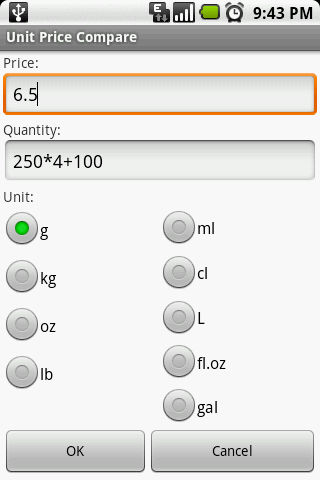
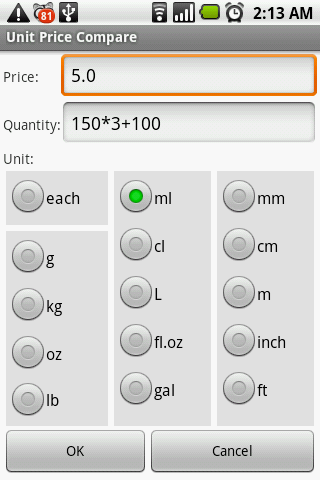
0.8

diff --git a/UnitPriceCompare/src/leoliang/unitpricecompare/MainActivity.java b/UnitPriceCompare/src/leoliang/unitpricecompare/MainActivity.java
@@ -29,13 +29,13 @@ import android.view.ViewGroup;
 import android.view.ContextMenu.ContextMenuInfo;
 import android.view.View.OnClickListener;
 import android.view.View.OnCreateContextMenuListener;
-import android.widget.AdapterView;
 import android.widget.BaseAdapter;
 import android.widget.Button;
+import android.widget.CheckBox;
+import android.widget.CompoundButton;
 import android.widget.ListView;
 import android.widget.TextView;
-import android.widget.AdapterView.AdapterContextMenuInfo;
-import android.widget.AdapterView.OnItemClickListener;
+import android.widget.CompoundButton.OnCheckedChangeListener;
 
 import com.flurry.android.FlurryAgent;
 
@@ -46,6 +46,8 @@ public class MainActivity extends Activity {
 
     private static final int ACTION_CREATE = 45341;
     private static final int ACTION_EDIT = 45342;
+
+    private static final int MENU_DELETE = 1;
 
     private ItemList itemList;
 
@@ -76,22 +78,11 @@ public class MainActivity extends Activity {
 
         ListView listView = (ListView) findViewById(R.id.ShoppingItemList);
         listView.setAdapter(itemList);
-        listView.setOnCreateContextMenuListener(new OnCreateContextMenuListener() {
-            public void onCreateContextMenu(ContextMenu contextmenu, View view, ContextMenuInfo contextmenuinfo) {
-                android.view.MenuInflater inflater = getMenuInflater();
-                inflater.inflate(R.menu.item_context_menu, contextmenu);
-            }
-        });
-        listView.setOnItemClickListener(new OnItemClickListener() {
-            @Override
-            public void onItemClick(AdapterView<?> parent, View view, int position, long id) {
-                startEditItemActivity(position);
-            }
-        });
+        registerForContextMenu(listView);
 
         Button addButton = (Button) findViewById(R.id.AddItemButton);
         addButton.setOnClickListener(new OnClickListener() {
-            public void onClick(View view) {
+            public void onClick(@SuppressWarnings("unused") View view) {
                 Intent intent = new Intent(getApplicationContext(), ShoppingItemActivity.class);
                 startActivityForResult(intent, ACTION_CREATE);
                 // overridePendingTransition(R.anim.slide_in, R.anim.slide_out);
@@ -119,13 +110,9 @@ public class MainActivity extends Activity {
 
     @Override
     public boolean onContextItemSelected(MenuItem item) {
-        int itemIndex = (int) ((AdapterContextMenuInfo) item.getMenuInfo()).id;
-        switch (item.getItemId()) {
-        case R.id.EditItem:
-            startEditItemActivity(itemIndex);
-            return true;
-        case R.id.DeleteItem:
-            itemList.deleteItem(itemIndex);
+        switch (item.getOrder()) {
+        case MENU_DELETE:
+            itemList.deleteItem(item.getItemId());
             return true;
         default:
             return super.onContextItemSelected(item);
@@ -237,33 +224,62 @@ public class MainActivity extends Activity {
             return i;
         }
 
-        public View getView(int i, View convertView, ViewGroup viewgroup) {
-            ShoppingItem item = items.get(i);
+        public View getView(final int i, View convertView, ViewGroup viewgroup) {
+            final ShoppingItem item = items.get(i);
             View view = inflater.inflate(R.layout.item_view, null);
 
             TextView priceView = (TextView) view.findViewById(R.id.price);
             TextView rankView = (TextView) view.findViewById(R.id.rank);
             TextView quantityView = (TextView) view.findViewById(R.id.quantity);
             TextView ratioView = (TextView) view.findViewById(R.id.ratio);
+            CheckBox enabledBox = (CheckBox) view.findViewById(R.id.enabled);
 
             NumberFormat format = NumberFormat.getCurrencyInstance();
             priceView.setText(format.format(item.getPrice()));
             quantityView.setText(item.getQuantity().toString());
-            try {
-                int rank = ranker.getRank(item);
-                if ((rank > 0) && (rank <= rankName.length)) {
-                    rankView.setText(rankName[rank - 1]);
-                    if (rank <= 3) {
-                        rankView.setTextColor(Color.rgb(0, 153, 0)); // dark green
+            enabledBox.setChecked(item.isEnabled());
+
+            if (item.isEnabled()) {
+                try {
+                    int rank = ranker.getRank(item);
+                    if ((rank > 0) && (rank <= rankName.length)) {
+                        rankView.setText(rankName[rank - 1]);
+                        if (rank <= 3) {
+                            rankView.setTextColor(Color.rgb(0, 153, 0)); // dark green
+                        }
                     }
+                    if (rank > 1) {
+                        ratioView.setText("+" + numberFormat.format(ranker.getRatioToBestPrice(item) - 1));
+                    }
+                } catch (UncomparableUnitException e) {
+                    rankView.setText(R.string.uncomparable);
+                    rankView.setTextColor(Color.RED);
                 }
-                if (rank > 1) {
-                    ratioView.setText("+" + numberFormat.format(ranker.getRatioToBestPrice(item) - 1));
-                }
-            } catch (UncomparableUnitException e) {
-                rankView.setText(R.string.uncomparable);
-                rankView.setTextColor(Color.RED);
+            } else {
+                priceView.setEnabled(false);
             }
+
+            enabledBox.setOnCheckedChangeListener(new OnCheckedChangeListener() {
+                @Override
+                public void onCheckedChanged(CompoundButton button, boolean isChecked) {
+                    item.setEnabled(isChecked);
+                    notifyItemUpdated();
+                }
+            });
+
+            view.setOnClickListener(new OnClickListener() {
+                @Override
+                public void onClick(View paramView) {
+                    startEditItemActivity(i);
+                }
+            });
+
+            view.setOnCreateContextMenuListener(new OnCreateContextMenuListener() {
+                @Override
+                public void onCreateContextMenu(ContextMenu menu, View view, ContextMenuInfo menuInfo) {
+                    menu.add(Menu.NONE, i, MENU_DELETE, getString(R.string.delete_item));
+                }
+            });
 
             return view;
         }

diff --git a/UnitPriceCompare/src/leoliang/unitpricecompare/ShoppingItemActivity.java b/UnitPriceCompare/src/leoliang/unitpricecompare/ShoppingItemActivity.java
@@ -17,7 +17,6 @@ import android.widget.Button;
 import android.widget.RadioGroup;
 import android.widget.TextView;
 import android.widget.Toast;
-import android.widget.RadioGroup.OnCheckedChangeListener;
 
 import com.flurry.android.FlurryAgent;
 
@@ -62,29 +61,9 @@ public class ShoppingItemActivity extends Activity {
 
         setContentView(R.layout.item);
 
-        final TextView priceField = (TextView) findViewById(R.id.ItemDialog_PriceField);
-        final TextView quantityField = (TextView) findViewById(R.id.ItemDialog_QuantityField);
-        final RadioGroup noUnitGroup = (RadioGroup) findViewById(R.id.ItemDialog_Unit_notAvailable);
-        final RadioGroup volumeGroup = (RadioGroup) findViewById(R.id.ItemDialog_Unit_volume);
-        final RadioGroup weightGroup = (RadioGroup) findViewById(R.id.ItemDialog_Unit_weight);
-        final RadioGroup lengthGroup = (RadioGroup) findViewById(R.id.ItemDialog_Unit_length);
-
-        radioGroups.add(weightGroup);
-        radioGroups.add(volumeGroup);
-        radioGroups.add(noUnitGroup);
-        radioGroups.add(lengthGroup);
-
-        OnCheckedChangeListener onCheckedChangeListener = new OnCheckedChangeListener() {
-            public void onCheckedChanged(RadioGroup group, int checkedId) {
-                priceField.clearFocus();
-                quantityField.clearFocus();
-            }
-        };
-        radioGroups.setOnCheckedChangeListener(onCheckedChangeListener);
-
-        Button okButton = (Button) findViewById(R.id.ItemDialog_ok);
+        final Button okButton = (Button) findViewById(R.id.ItemDialog_ok);
         okButton.setOnClickListener(new OnClickListener() {
-            public void onClick(View view) {
+            public void onClick(@SuppressWarnings("unused") View view) {
                 if (updateShoppingItem()) {
                     Intent intent = getIntent();
                     intent.putExtra(EXTRA_SHOPPING_ITEM, shoppingItem);
@@ -97,11 +76,23 @@ public class ShoppingItemActivity extends Activity {
         });
         Button cancelButton = (Button) findViewById(R.id.ItemDialog_cancel);
         cancelButton.setOnClickListener(new OnClickListener() {
-            public void onClick(View view) {
+            public void onClick(@SuppressWarnings("unused") View view) {
                 ShoppingItemActivity.this.setResult(RESULT_CANCELED);
                 ShoppingItemActivity.this.finish();
             }
         });
+
+        final TextView priceField = (TextView) findViewById(R.id.ItemDialog_PriceField);
+        final TextView quantityField = (TextView) findViewById(R.id.ItemDialog_QuantityField);
+        final RadioGroup noUnitGroup = (RadioGroup) findViewById(R.id.ItemDialog_Unit_notAvailable);
+        final RadioGroup volumeGroup = (RadioGroup) findViewById(R.id.ItemDialog_Unit_volume);
+        final RadioGroup weightGroup = (RadioGroup) findViewById(R.id.ItemDialog_Unit_weight);
+        final RadioGroup lengthGroup = (RadioGroup) findViewById(R.id.ItemDialog_Unit_length);
+
+        radioGroups.add(weightGroup);
+        radioGroups.add(volumeGroup);
+        radioGroups.add(noUnitGroup);
+        radioGroups.add(lengthGroup);
 
         // init values
 
@@ -147,6 +138,7 @@ public class ShoppingItemActivity extends Activity {
             return false;
         }
         shoppingItem.getQuantity().setUnit(unit);
+        shoppingItem.setEnabled(true);
 
         return true;
     }

diff --git a/UnitPriceCompare/src/leoliang/unitpricecompare/model/PriceRanker.java b/UnitPriceCompare/src/leoliang/unitpricecompare/model/PriceRanker.java
@@ -9,7 +9,7 @@ import leoliang.unitpricecompare.model.Quantity.UnitType;
 import leoliang.util.ArrayHelper;
 
 public class PriceRanker {
-    
+
     public class UncomparableUnitException extends Exception {
     }
 
@@ -20,7 +20,7 @@ public class PriceRanker {
         priceRank.clear();
         unitType = getMajorityUnitType(items);
         for (ShoppingItem item : items) {
-            if (item.getQuantity().getUnitType().equals(unitType)) {
+            if (item.isEnabled() && item.getQuantity().getUnitType().equals(unitType)) {
                 double unitPrice = item.getUnitPrice();
                 if (!priceRank.contains(unitPrice)) {
                     priceRank.add(unitPrice);
@@ -34,8 +34,10 @@ public class PriceRanker {
         int[] counters = new int[UnitType.values().length];
 
         for (ShoppingItem item : items) {
-            UnitType unit = item.getQuantity().getUnitType();
-            counters[unit.ordinal()]++;
+            if (item.isEnabled()) {
+                UnitType unit = item.getQuantity().getUnitType();
+                counters[unit.ordinal()]++;
+            }
         }
 
         return UnitType.values()[ArrayHelper.getIndexOfMax(counters)];
@@ -47,6 +49,9 @@ public class PriceRanker {
      * @throws UncomparableUnitException
      */
     public int getRank(ShoppingItem item) throws UncomparableUnitException {
+        if (!item.isEnabled()) {
+            return 0;
+        }
         if (!item.getQuantity().getUnitType().equals(unitType)) {
             throw new UncomparableUnitException();
         }

diff --git a/UnitPriceCompare/src/leoliang/unitpricecompare/model/ShoppingItem.java b/UnitPriceCompare/src/leoliang/unitpricecompare/model/ShoppingItem.java
@@ -9,6 +9,7 @@ public class ShoppingItem implements Serializable {
 
     private double price;
     private Quantity quantity;
+    private boolean enabled = true;
 
     public ShoppingItem() {
         quantity = new Quantity();
@@ -16,6 +17,7 @@ public class ShoppingItem implements Serializable {
 
     public ShoppingItem(JSONObject jsonObject) throws JSONException {
         setPrice(jsonObject.getDouble("price"));
+        setEnabled(jsonObject.getBoolean("enabled"));
         quantity = new Quantity(jsonObject.getJSONObject("quantity"));
     }
 
@@ -35,11 +37,19 @@ public class ShoppingItem implements Serializable {
         this.price = price;
     }
 
+    public void setEnabled(boolean enabled) {
+        this.enabled = enabled;
+    }
+
+    public boolean isEnabled() {
+        return enabled;
+    }
+
     public boolean isValid() {
         return ((price > 0) && quantity.isValid());
     }
 
     public JSONObject toJson() throws JSONException {
-        return new JSONObject().put("price", price).put("quantity", quantity.toJson());
+        return new JSONObject().put("price", price).put("quantity", quantity.toJson()).put("enabled", enabled);
     }
 }

diff --git a/UnitPriceCompare/src/leoliang/util/ArrayHelper.java b/UnitPriceCompare/src/leoliang/util/ArrayHelper.java
@@ -28,9 +28,12 @@ public class ArrayHelper {
      * @return index of the maximum
      */
     public static int getIndexOfMax(int[] array) {
-        int indexOfMax = -1;
+        if (array.length <= 1) {
+            return 1;
+        }
+        int indexOfMax = 0;
         int max = array[0];
-        for (int i = 0; i < array.length; i++) {
+        for (int i = 1; i < array.length; i++) {
             if (array[i] > max) {
                 indexOfMax = i;
                 max = array[i];
